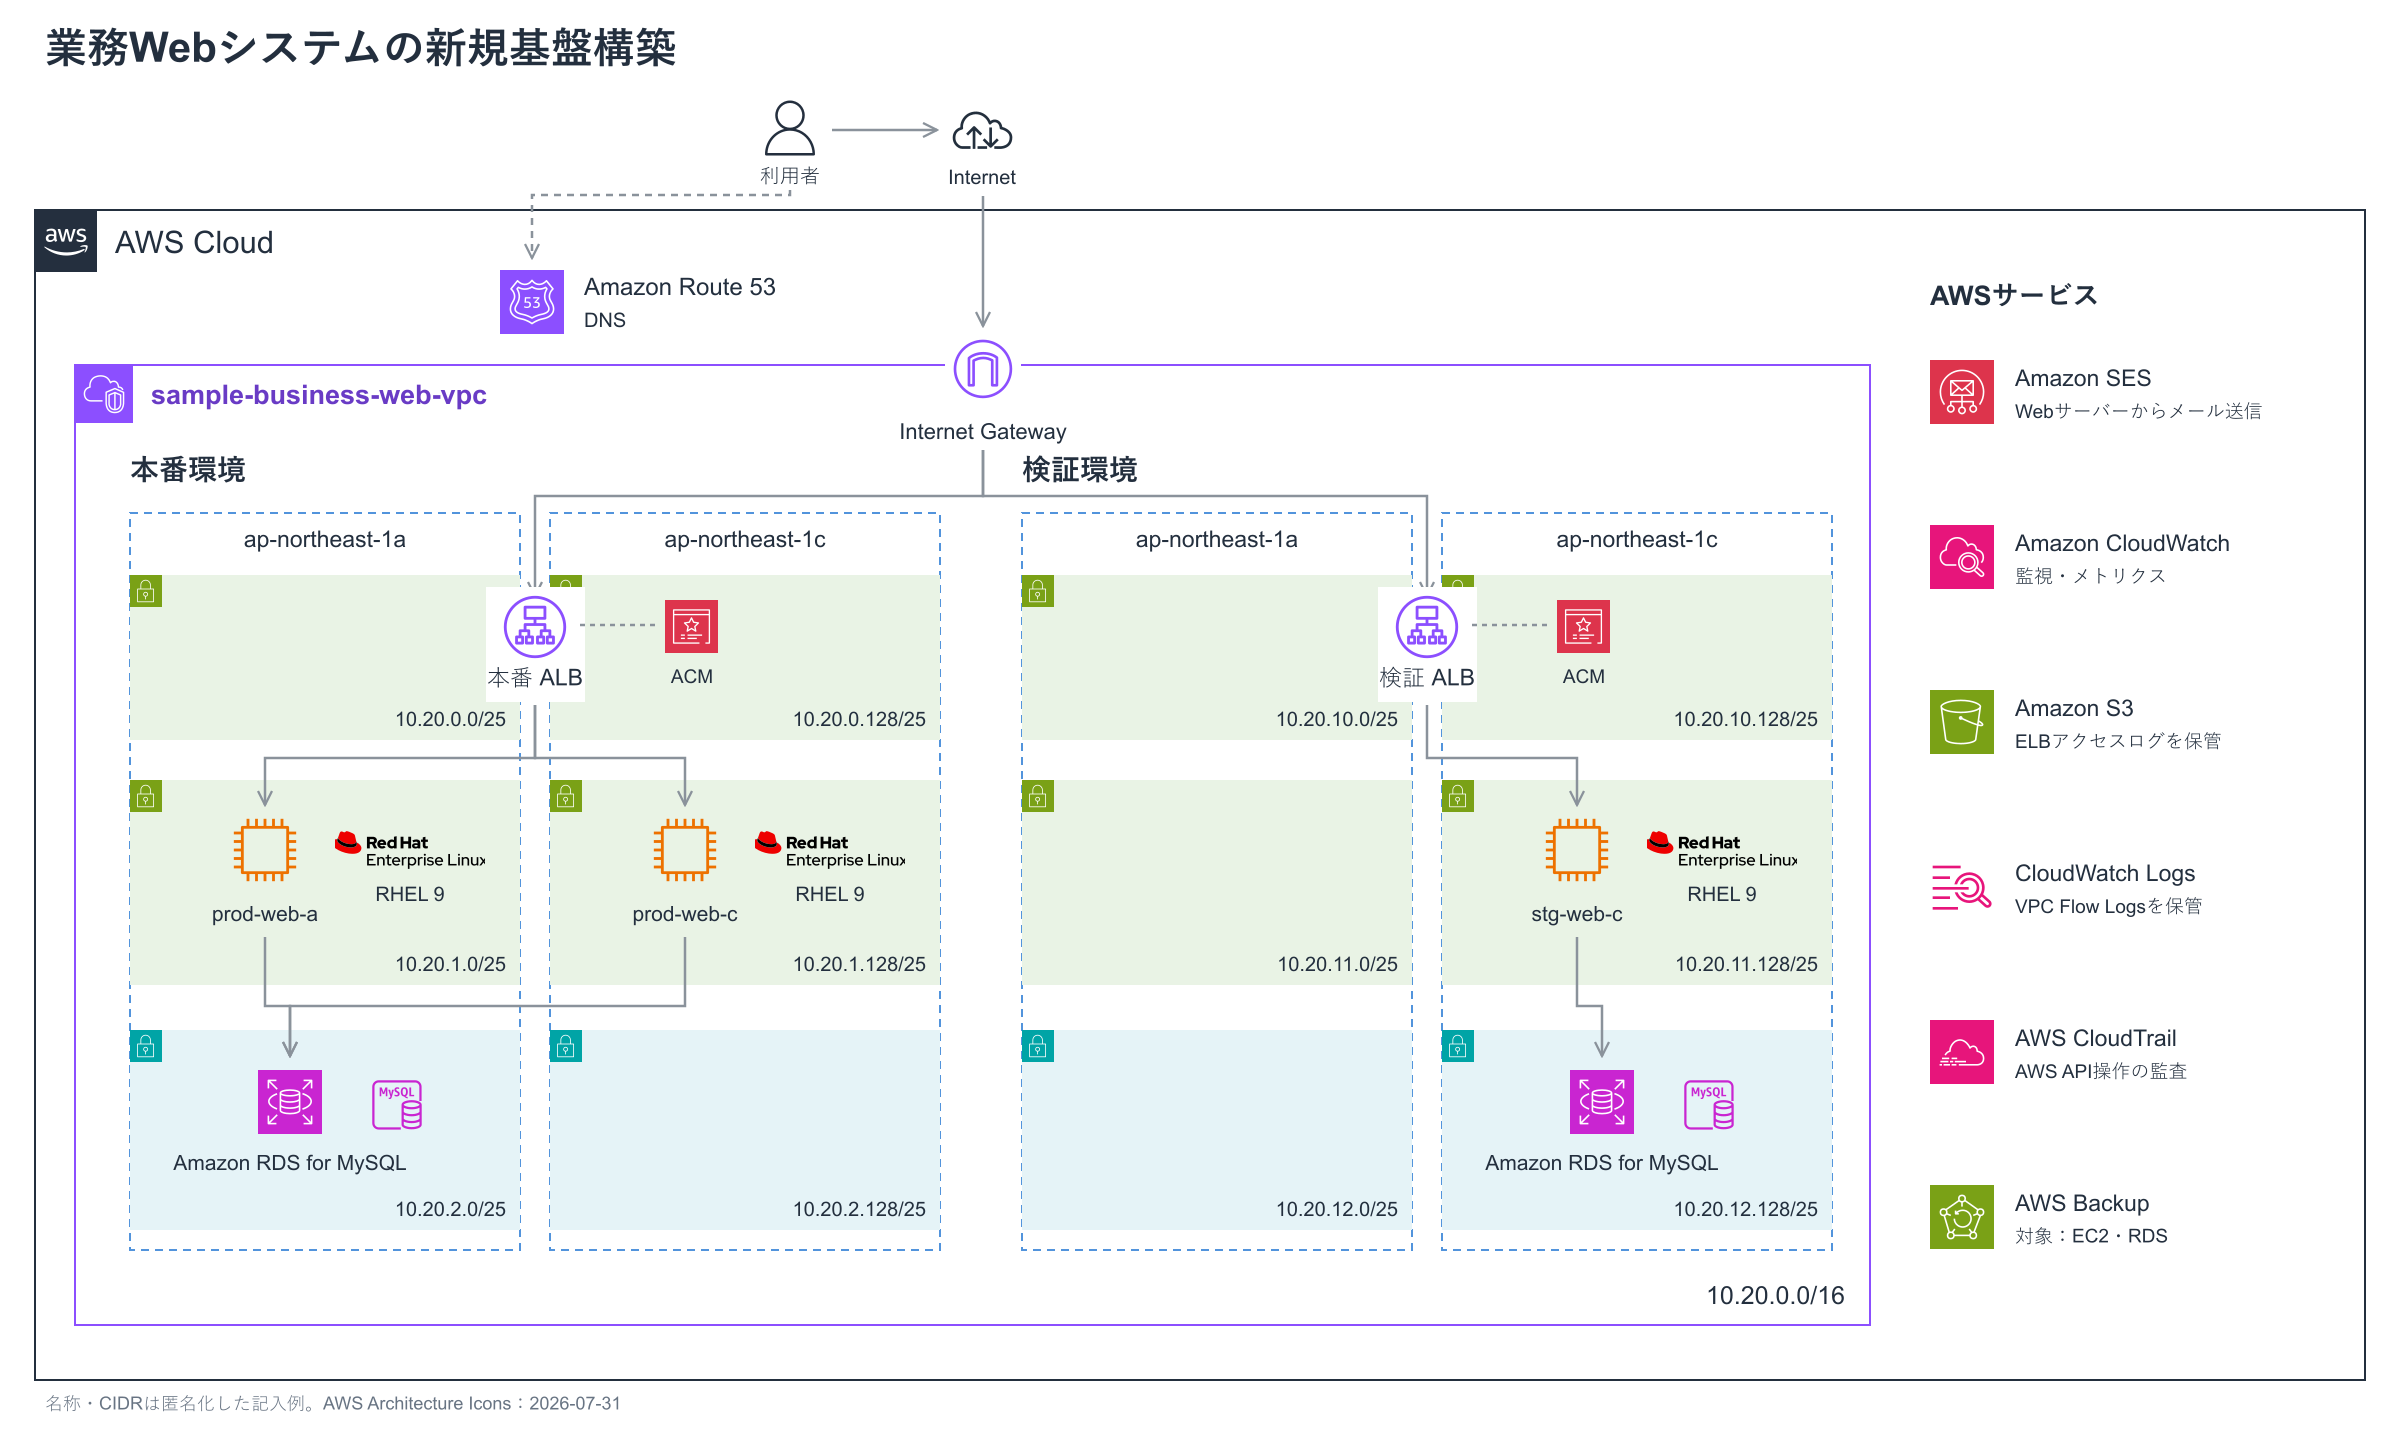
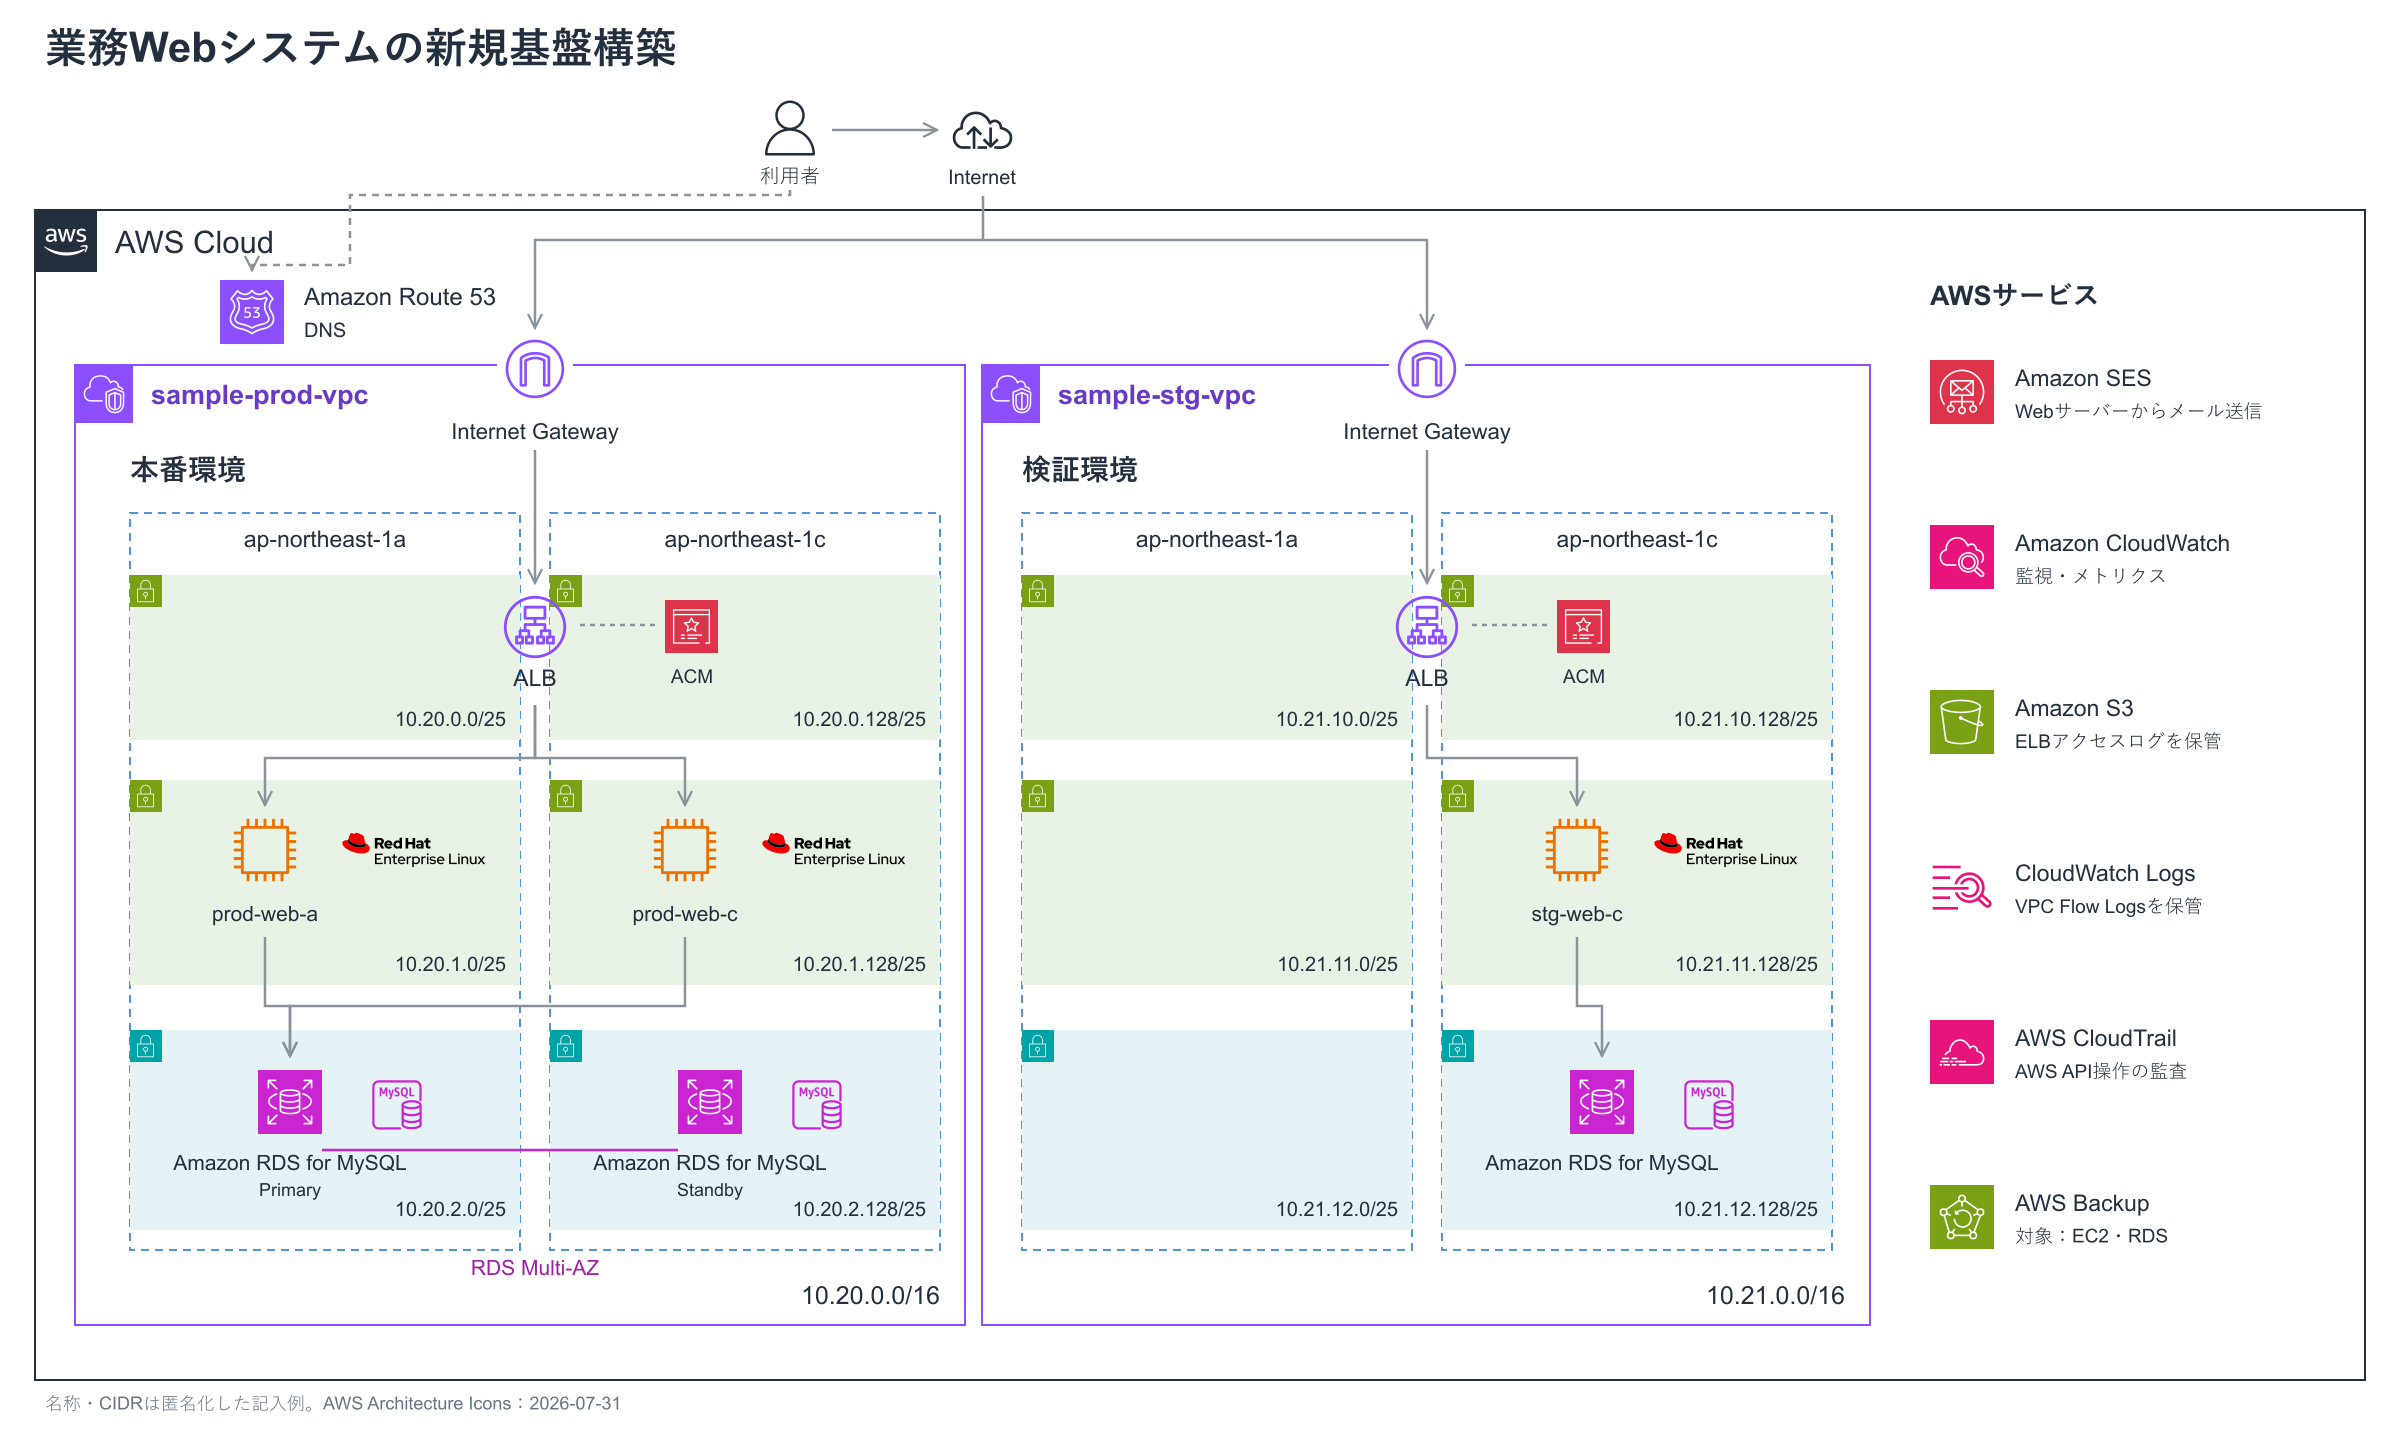
Separate web environment VPCs and center internet gateways

diff --git a/projects.html b/projects.html
@@ -74,10 +74,10 @@
         <h3>2.2 業務Webシステムの新規基盤構築</h3>
         <div class="case-split">
           <figure class="case-diagram">
-            <a href="assets/career-architectures/architecture-business-web-production-staging.png" title="構成図を原寸で開く"><img src="assets/career-architectures/architecture-business-web-production-staging.png" width="2400" height="1430" alt="業務Webシステムの本番・検証構成。本番EC2は2AZに冗長配置し、RHEL 9とRDS for MySQLを使用。ELBログはS3、VPC Flow LogsはCloudWatch Logsへ保管し、EC2とRDSをAWS Backupで保護。" loading="lazy"></a>
+            <a href="assets/career-architectures/architecture-business-web-production-staging.png" title="構成図を原寸で開く"><img src="assets/career-architectures/architecture-business-web-production-staging.png" width="2400" height="1430" alt="業務Webシステムの本番・検証を別VPC・別Internet Gatewayで構成。本番EC2は2AZに冗長配置し、RDS for MySQLはMulti-AZ構成。ELBログはS3、VPC Flow LogsはCloudWatch Logsへ保管し、EC2とRDSをAWS Backupで保護。" loading="lazy"></a>
           </figure>
           <div class="case-description">
-            <p class="case-lead">業務Webシステムの本番・検証環境を新規構築。本番のWebサーバーは2つのAZに分散して配置しました。</p>
+            <p class="case-lead">業務Webシステムの本番・検証環境を別VPCに新規構築。本番のWebサーバーは2つのAZに分散して配置し、RDSはMulti-AZ構成としました。</p>
             <dl class="case-facts">
               <dt>基盤構成</dt><dd>VPC、ALB、EC2、RDS、Route 53、ACM、Amazon SES</dd>
               <dt>OS・DB</dt><dd>Red Hat Enterprise Linux 9、Amazon RDS for MySQL</dd>
